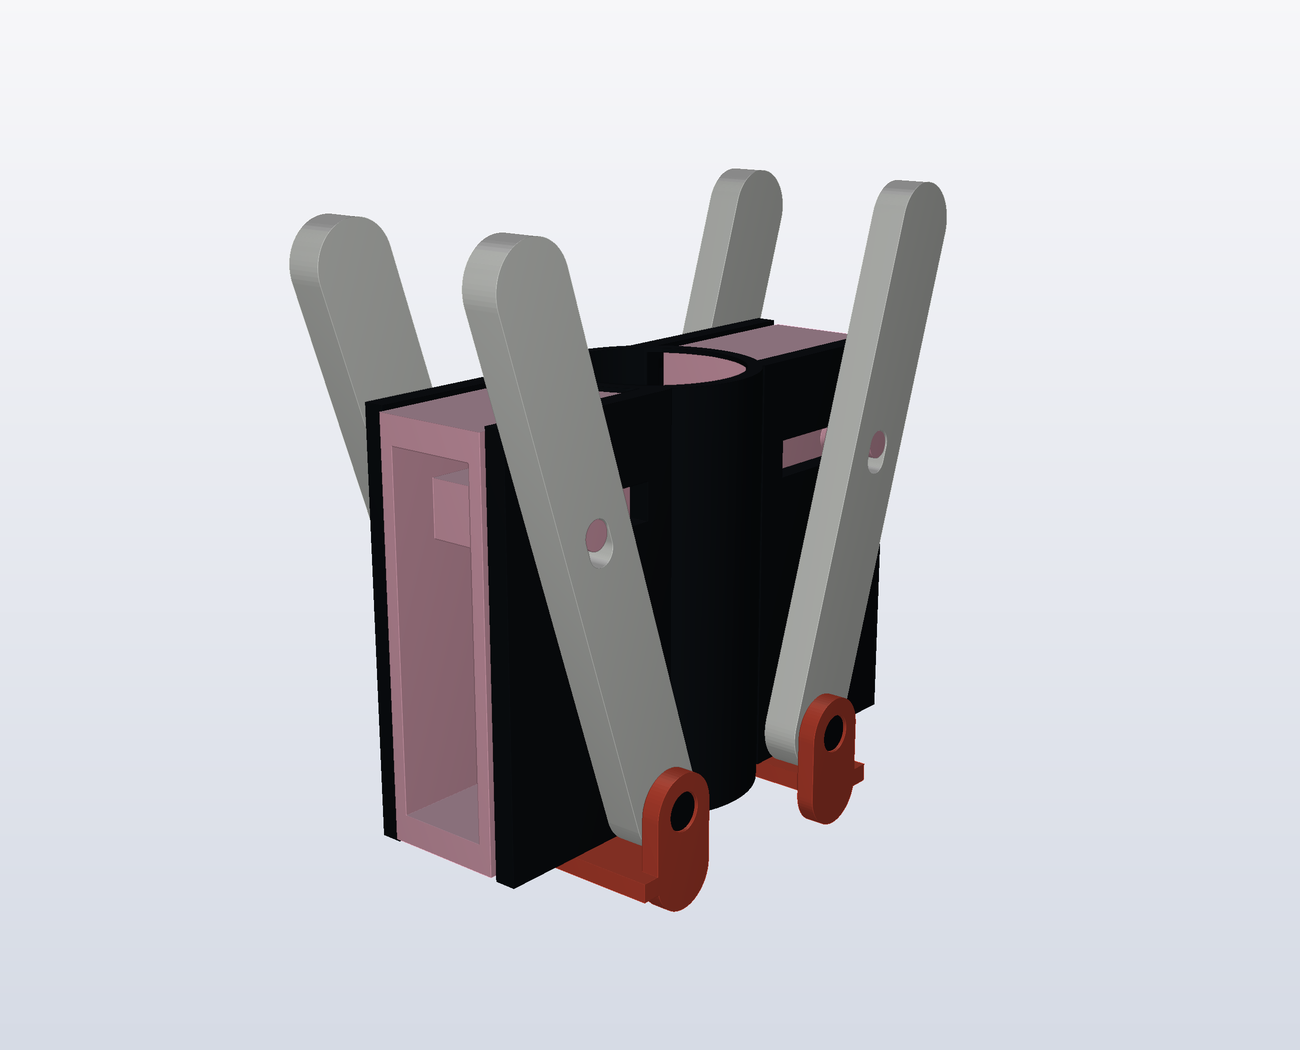
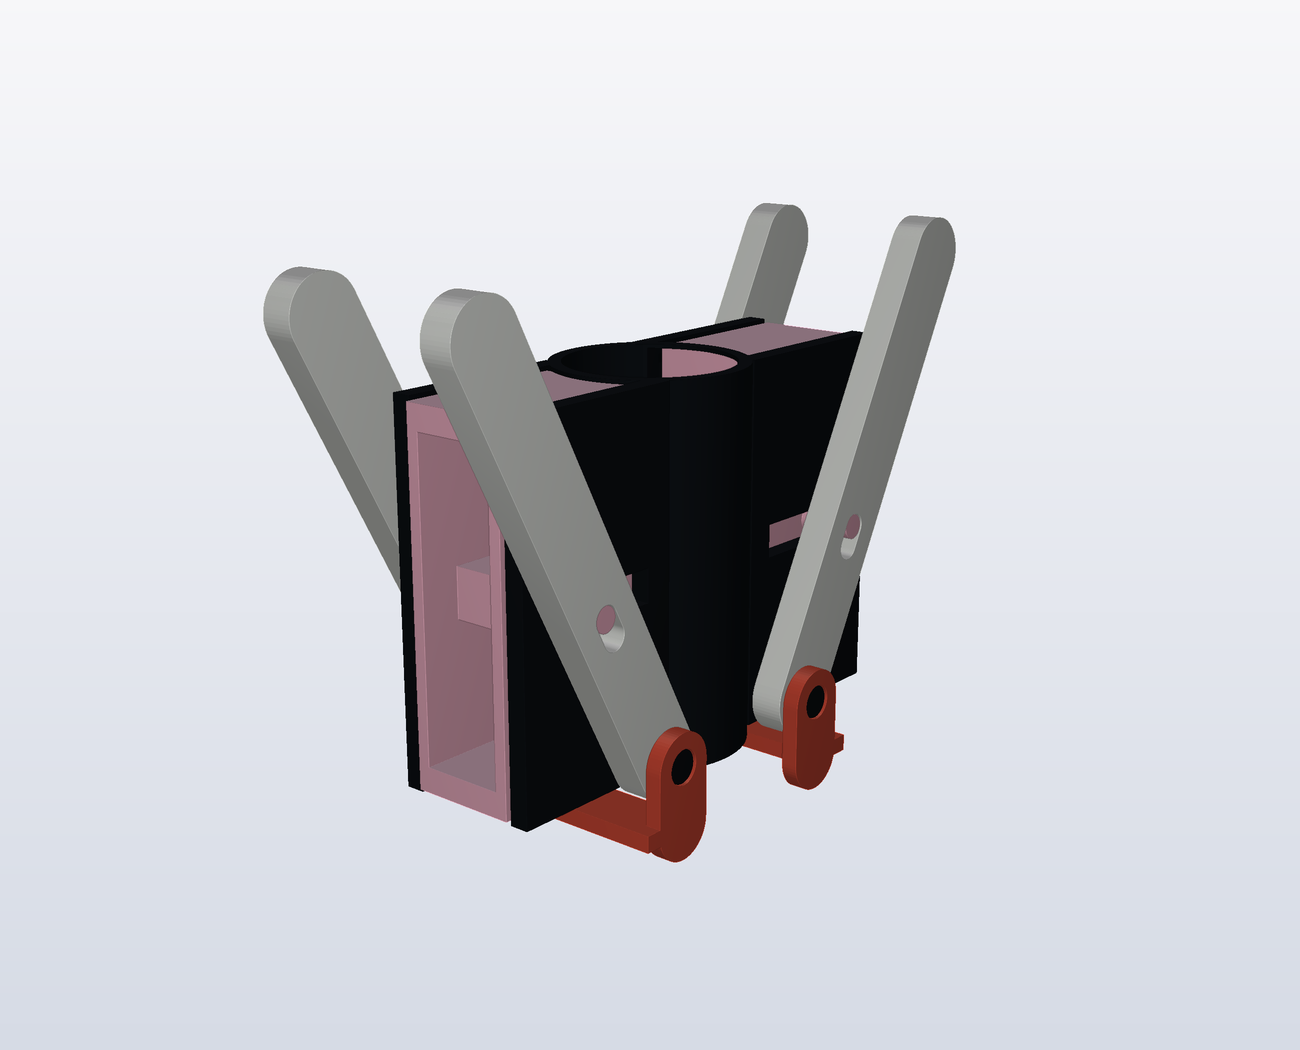
twist-grip: drive the jaw at its middle, runners at both ends
The drive post moves to z 46, the middle of the 3..89 jaw, and the two
vee runners sit 15 mm and 5 mm in from the jaw's ends -- 66 mm apart,
which is the separation that holds the jaw square under an uneven grip.

The arm shortens from 60 to 38 mm and the swing grows to 27.8 deg, so
the drive slot now takes 4.94 mm of run rather than 3.25.

The last commit put the drive two thirds along the jaw on the grounds
that a mid-jaw drive gave a 129 mm span. That reasoning was wrong: it
measured the span at the body's back face, assuming a hand could only
close on the lever past the end of the body. It can close wherever the
lever's outer edge stands proud of the guide wall, which is from z 66 --
104 mm open against 50 shut, the usable range. Nothing about the wall
or the hand changed; the earlier number was measured in the wrong place.

The pivot drops to r 25, z 8. Both moves are forced: r 26 put the span
wider than it needed to be, and z 9 left only 1 mm between the pivot
post and the front runner's groove, which is the one piece of wall that
carries the whole lever reaction. At r 25 the lever's rounded pivot end
clears the tube by 1.3 mm, and at z 8 the groove clears the post by 3.1.

35 checks, all passing, including the new ones: drive at the jaw's
middle, a runner near each end, the drive window clear of both grooves,
the front groove clear of the pivot post, and the lever's pivot end
clear of the tube.

Claude-Session: https://claude.ai/code/session_01BfCgrzXtRn8srHGcxKgT97

Changed region(s): [[0.1846, 0.1524, 0.7385, 0.8838]]

diff --git a/twist-grip/concept_lever.py b/twist-grip/concept_lever.py
@@ -9,9 +9,12 @@ This revision rebuilds the mount and the lever:
     entrance    the front face of the 90 mm body, jaw starting 3 mm in
                 behind a 45 degree lead-in chamfer
     pivot       a 12 mm post out of each body wall, near the front
-    drive       a post out of each jaw side, ending 4 mm short of the
-                body post's tip -- that is, flush with the lever's
-                outer face, so it never fouls the brace
+    runners     a vee rail near each end of each jaw side, 66 mm apart,
+                which is the separation that holds the jaw square
+    drive       a post out of the middle of each jaw side, ending 4 mm
+                short of the
+                body post's tip -- flush with the lever's outer
+                face, so it never fouls the brace
     lever       one flat piece, 8 mm thick where the holes are, running
                 the length of the body and 40 mm past it
     brace       a C channel over each pair of pivot posts, picking up
@@ -27,9 +30,10 @@ Nutcracker, not see-saw: pivot, then drive, then handle, in that order
 along the lever. Put the handle on the far side of the pivot and
 squeezing opens the jaws.
 
-    pivot    r 26, z 9        arm 60 mm to the drive at z 69
-    swing    18.4 deg  ->  20 mm of jaw travel a side
-    span     at the body's back face, 103 mm open -> 52 mm shut
+    pivot    r 25, z 8        arm 38 mm to the drive at z 46, mid jaw
+    swing    27.8 deg  ->  20 mm of jaw travel a side
+    span     104 mm open -> 50 mm shut, closing on the lever from z 66,
+             which is where its outer edge first clears the guide wall
 
 Run:  python3 concept_lever.py
 """
@@ -79,8 +83,8 @@ BRACE_Y0 = LEVER_Y1 + FIT              # 26.55
 BRACE_T = 4.0
 BRACE_Y1 = BRACE_Y0 + BRACE_T          # 30.55
 
-PIVOT = (26.0, 9.0)                    # near the front, on the wall's face
-DRIVE_Z = 69.0
+PIVOT = (25.0, 8.0)                    # near the front, on the wall's face
+DRIVE_Z = (JAW_Z0 + JAW_Z1) / 2.0      # 46.0, the middle of the jaw
 ARM = DRIVE_Z - PIVOT[1]               # 60.0
 DRIVE_LOCAL = PIVOT[0]                 # the post's x in jaw-local terms
 PSI_OPEN = math.atan(P.JAW_TRAVEL / ARM)
@@ -94,9 +98,11 @@ RAIL_X = (19.0, 39.0)
 GROOVE_X = (RAIL_X[0], RAIL_X[1] + P.JAW_TRAVEL)
 WALL_X = (15.0, GROOVE_X[1] + 2.0)
 WALL_Z = (2.0, BODY_H)
-RAIL_Z = (JAW_Z0 + 14.0, JAW_Z1 - 5.0)              # 17, 84
+# front and back, as far apart as they will go: the pair's separation is
+# what holds the jaw square, and it has to clear the pivot post at one end
+RAIL_Z = (JAW_Z0 + 15.0, JAW_Z1 - 5.0)              # 18, 84
 WINDOW_X = (22.0, 50.0)
-WINDOW_Z = (DRIVE_Z - 4.0, DRIVE_Z + 4.0)           # 65 .. 73
+WINDOW_Z = (DRIVE_Z - 4.0, DRIVE_Z + 4.0)           # 42 .. 50
 DRIVE_BOSS_X, DRIVE_BOSS_L = 20.0, 12.0
 DRIVE_BOSS_Z = (DRIVE_Z - 6.0, DRIVE_Z + 6.0)
 
@@ -271,12 +277,12 @@ def brace(index):
     """A C channel over one jaw's pair of pivot posts: two flanges with a
     hole each, tied by a web that crosses clear in front of the body."""
     px, pz = PIVOT
-    tab = LineString([(px, -4.0), (px, pz)]).buffer(8.0, resolution=16)
+    tab = LineString([(px, -6.0), (px, pz)]).buffer(8.0, resolution=16)
     pieces = [plate(tab, BRACE_T, BRACE_Y0),
               plate(tab, BRACE_T, -BRACE_Y1),
               # the web crosses in front of the body, kept outboard of the
               # entrance chamfer so nothing narrows the way in
-              T.bar(14.0, 2 * BRACE_Y1, -6.0, -2.0, x0=px - 2.0)]
+              T.bar(14.0, 2 * BRACE_Y1, -8.0, -4.0, x0=px - 2.0)]
     holes = [pin(POST_D + 0.35, -60.0, 60.0, PIVOT, 1)]
     return T.spun(T.cut(T.fuse(*pieces), *holes), 180.0 * index)
 
@@ -346,10 +352,23 @@ def checks():
     ok("the bore is clear when open",
        abs(face_at(PSI_OPEN) - P.BORE_D / 2.0) < 1e-9)
     ok("the drive slot is long enough for the arc",
-       SLOT_RUN > 3.0, f"{SLOT_RUN:.2f} mm of run")
-    ok("the drive window clears the back runner",
-       RAIL_Z[1] - RAIL_H - WINDOW_Z[1] >= P.WALL_MIN,
-       f"{RAIL_Z[1] - RAIL_H - WINDOW_Z[1]:.1f} mm of wall")
+       SLOT_RUN > 4.5, f"{SLOT_RUN:.2f} mm of run")
+    ok("the drive post is at the middle of the jaw",
+       abs(DRIVE_Z - (JAW_Z0 + JAW_Z1) / 2.0) < 1e-9, f"z {DRIVE_Z:.0f}")
+    ok("a runner sits near each end of the jaw",
+       RAIL_Z[0] - JAW_Z0 <= 15.0 and JAW_Z1 - RAIL_Z[1] <= 15.0,
+       f"{RAIL_Z[0] - JAW_Z0:.0f} and {JAW_Z1 - RAIL_Z[1]:.0f} mm in, "
+       f"{RAIL_Z[1] - RAIL_Z[0]:.0f} mm apart")
+    ok("the drive window clears both runners",
+       min(RAIL_Z[1] - RAIL_H - WINDOW_Z[1],
+           WINDOW_Z[0] - (RAIL_Z[0] + RAIL_H)) >= P.WALL_MIN,
+       f"{min(RAIL_Z[1] - RAIL_H - WINDOW_Z[1], WINDOW_Z[0] - RAIL_Z[0] - RAIL_H):.1f} mm of wall")
+    ok("the front runner's groove clears the pivot post",
+       (RAIL_Z[0] - RAIL_H) - (PIVOT[1] + POST_D / 2.0) >= 1.5,
+       f"{(RAIL_Z[0] - RAIL_H) - (PIVOT[1] + POST_D / 2.0):.1f} mm")
+    ok("the lever's pivot end clears the tube",
+       math.hypot(PIVOT[0] - LEVER_HALF_W, LEVER_Y0) > BODY_R,
+       f"r {math.hypot(PIVOT[0] - LEVER_HALF_W, LEVER_Y0):.1f} vs {BODY_R}")
 
     for tag, psi in (("open", PSI_OPEN), ("half", PSI_OPEN / 2), ("shut", PSI_SHUT)):
         j = jaw(psi, 0)
@@ -433,6 +452,18 @@ def renders(out):
              **SHOW, **cam).save(out / "56-stack-apart.png")
     print("  renders/56-stack-apart.png")
 
+    # runner and groove, drawn apart: the jaw's two vee rails and the
+    # drive post in the middle, against the wall they land in
+    apart = [{"mesh": jaw(PSI_SHUT, 0), "color": COL["jaw"]}]
+    w = _wall(-1)
+    w.apply_translation((0.0, -36.0, 0.0))
+    apart.append({"mesh": w, "color": COL_DETAIL})
+    cam = R.frame([p["mesh"] for p in apart], azimuth_deg=56,
+                  elevation_deg=20, margin=1.03)
+    R.render(apart, width=1300, height=1050, supersample=2,
+             **SHOW, **cam).save(out / "59-runners.png")
+    print("  renders/59-runners.png")
+
     # plan sections through each post's own axis
     for name, z, eye_x in (("57-pivot-section.png", PIVOT[1], 26.0),
                            ("58-drive-section.png", DRIVE_Z, 30.0)):
@@ -448,9 +479,13 @@ if __name__ == "__main__":
     good = checks()
     print()
     renders(Path(__file__).parent / "renders")
-    for z, label in ((BODY_H, "at the body's back face"),
+    # A hand can close on the lever only where its outer edge stands proud
+    # of the guide wall; below that the wall is in the way of the push.
+    reach = (WALL_X[1] - LEVER_HALF_W - PIVOT[0]) / math.sin(PSI_OPEN)
+    for z, label in ((reach + PIVOT[1], "where the lever clears the wall"),
+                     (BODY_H, "at the body's back face"),
                      (LEVER_TIP_Z, "at the lever tip")):
         s = (z - PIVOT[1]) * math.sin(PSI_OPEN)
-        print(f"\n  grip {label}: span {2 * (PIVOT[0] + s):.0f} mm open"
-              f" -> {2 * PIVOT[0]:.0f} mm shut")
+        print(f"  grip {label} (z {z:.0f}): span {2 * (PIVOT[0] + s):.0f} mm"
+              f" open -> {2 * PIVOT[0]:.0f} mm shut")
     sys.exit(0 if good else 1)
